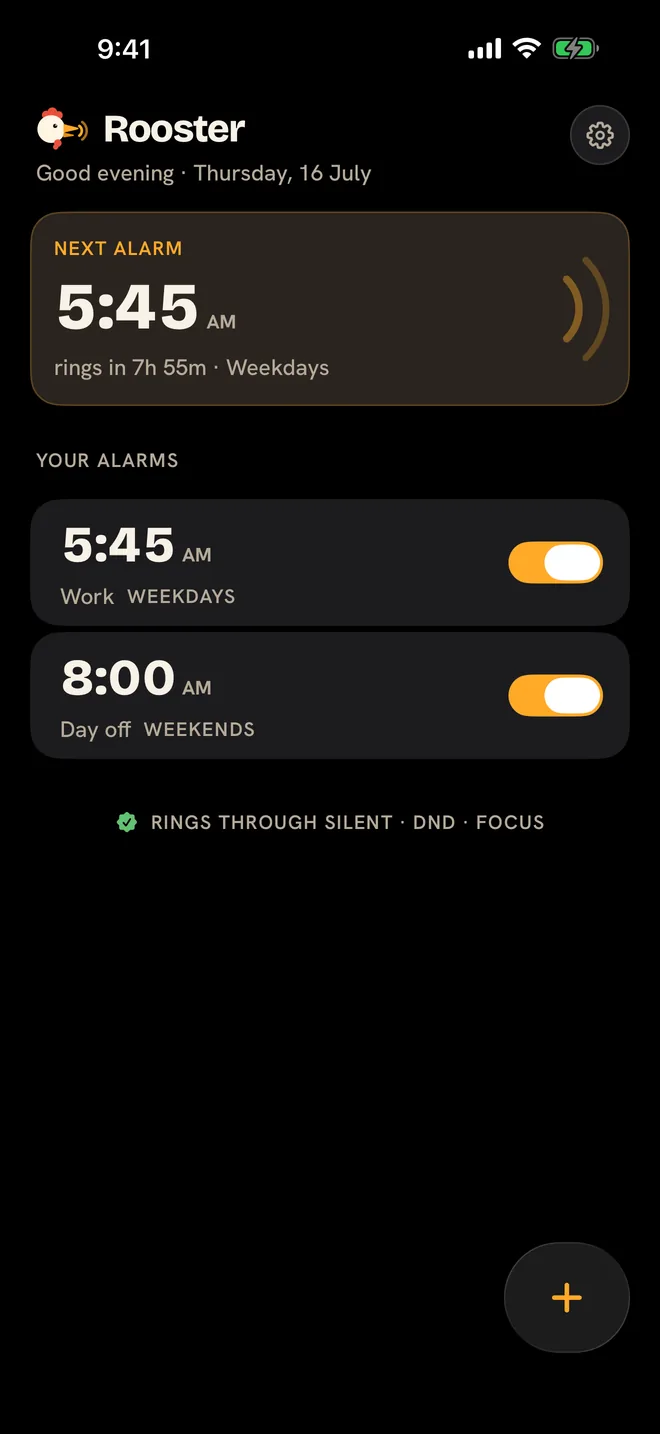
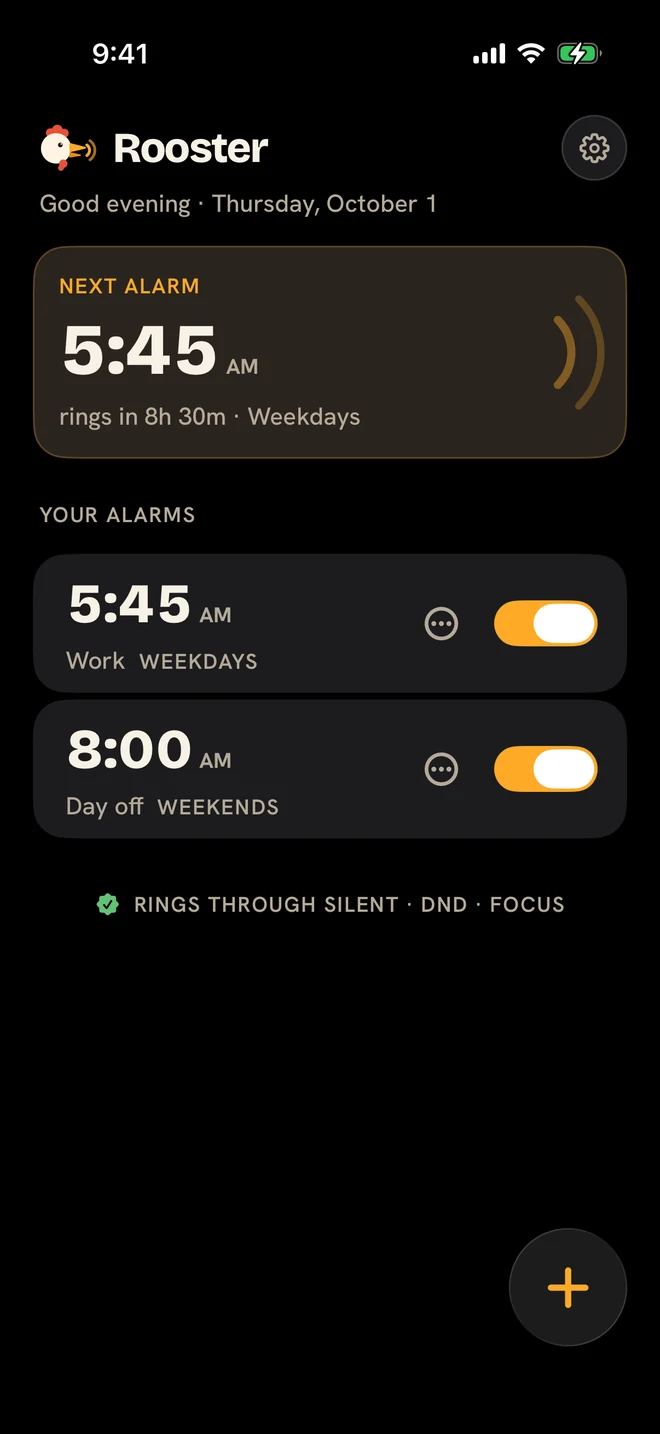
site: current app screenshots (home and math mission from 3.0)

diff --git a/index.html b/index.html
@@ -125,7 +125,7 @@
 
       <div class="hero-stage">
         <div class="device">
-          <img src="assets/phone-home.webp" alt="Rooster home screen: the next alarm armed for 5:45 AM, two scheduled alarms, and the badge rings through Silent, DND, Focus" width="660" height="1434" fetchpriority="high">
+          <img src="assets/phone-home.webp?v=2" alt="Rooster home screen: the next alarm armed for 5:45 AM, two scheduled alarms, and the badge rings through Silent, DND, Focus" width="660" height="1434" fetchpriority="high">
         </div>
         <svg class="arcs" viewBox="0 0 120 150" aria-hidden="true">
           <path d="M14 38 A42 42 0 0 1 14 106" stroke-width="17"/>
@@ -184,7 +184,7 @@
       </div>
       <div class="missions-layout reveal">
         <div class="device">
-          <img src="assets/phone-mission.webp" alt="Rooster math mission screen asking 53 plus 31 before the alarm stops" width="660" height="1434">
+          <img src="assets/phone-mission.webp?v=2" alt="Rooster math mission screen asking 38 plus 35 before the alarm stops" width="660" height="1434">
         </div>
         <div class="tile-grid">
           <div class="card tile">

diff --git a/download/index.html b/download/index.html
@@ -61,7 +61,7 @@
 
       <div class="hero-stage">
         <div class="device">
-          <img src="../assets/phone-home.webp" alt="Rooster home screen with the next alarm armed for 5:45 AM" width="660" height="1434" fetchpriority="high">
+          <img src="../assets/phone-home.webp?v=2" alt="Rooster home screen with the next alarm armed for 5:45 AM" width="660" height="1434" fetchpriority="high">
         </div>
         <svg class="arcs" viewBox="0 0 120 150" aria-hidden="true">
           <path d="M14 38 A42 42 0 0 1 14 106" stroke-width="17"/>
